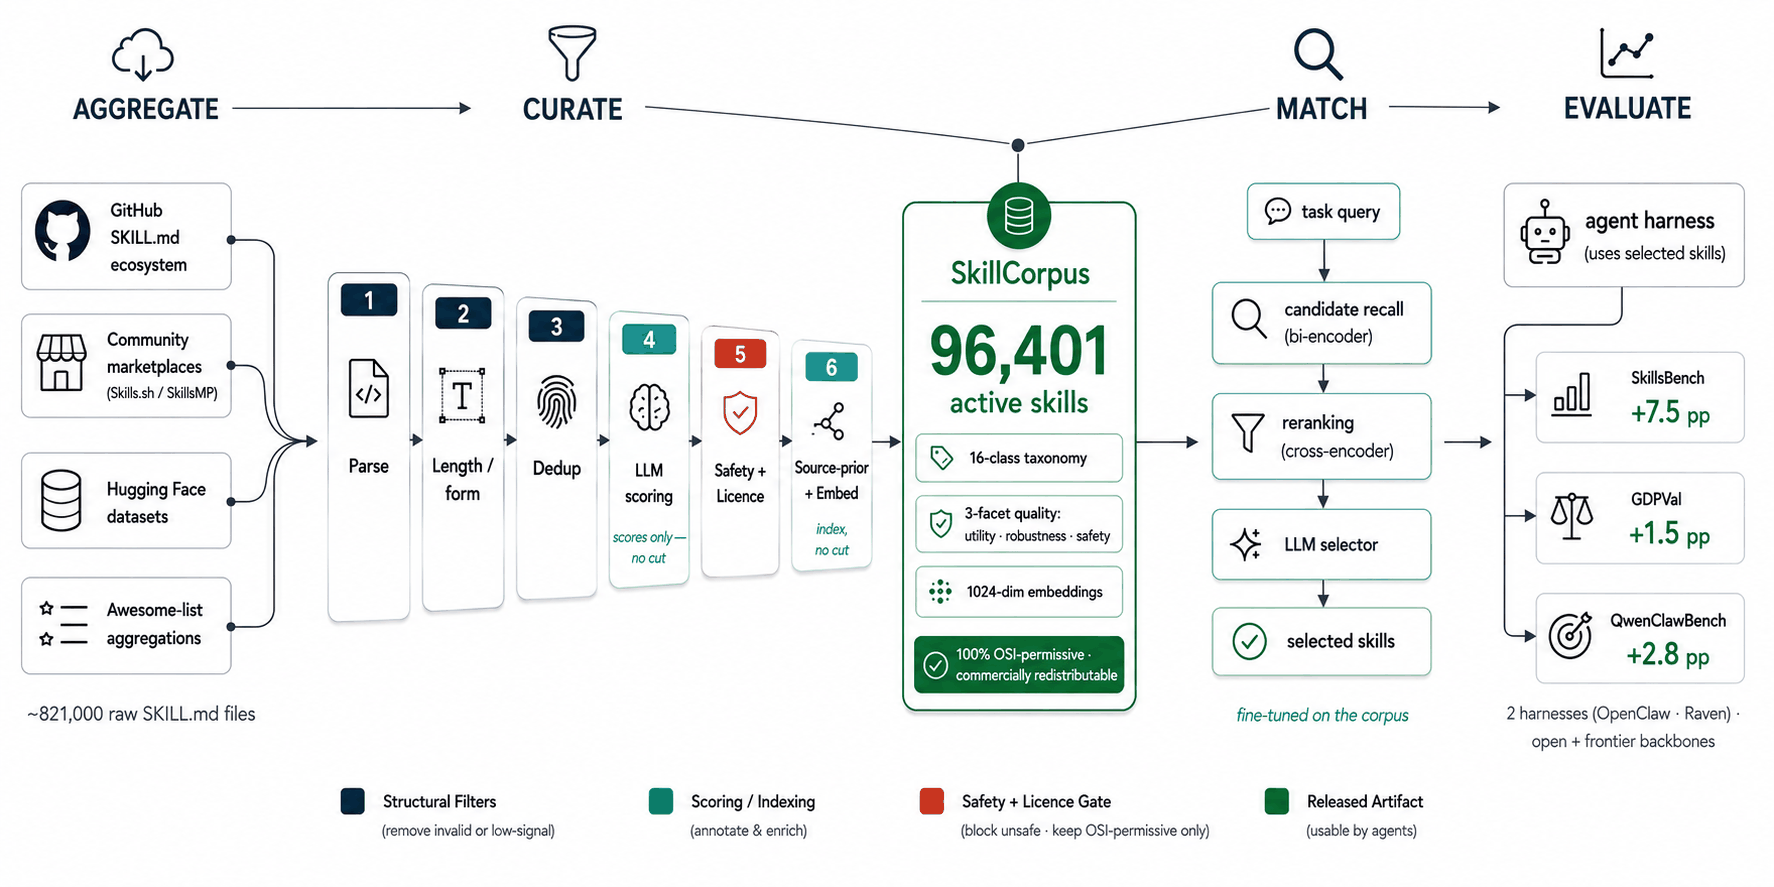
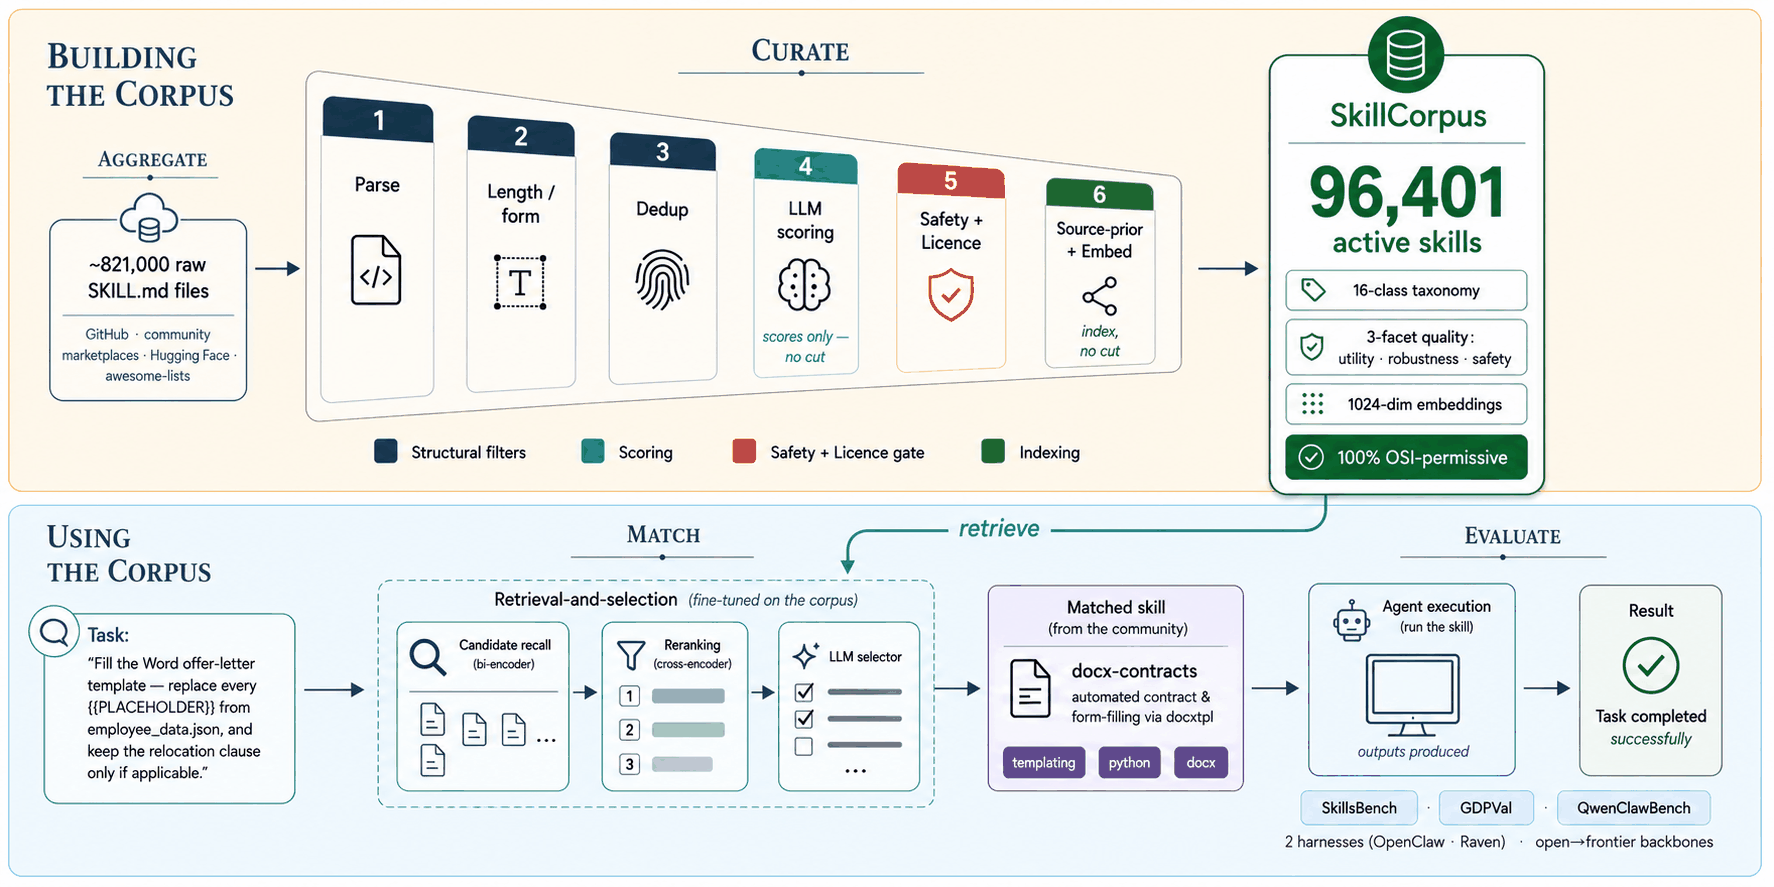
docs: refresh Figure 1 from the arXiv version, add the missing author
The pipeline figure was extracted from a local pre-print PDF that turned out
not to be final. Re-extracted from arXiv:2607.15557.

- docs/assets/pipeline.png: the arXiv figure is a redesign, split into
  "Building the corpus" (aggregate + curate) and "Using the corpus"
  (match + evaluate, with a worked task -> retrieve -> matched skill ->
  execution -> result example). It fits the usage-first README better than
  the previous single-row version. Alt text updated in both READMEs.
- Citation: the arXiv author list adds Xiaotian Luo, missing from the BibTeX
  in both READMEs.

Checked against the arXiv version and unchanged: Table 1 (all cells and the
pooled deltas) and Figure 2 (the 16-class distribution), so docs/assets/
taxonomy.png and the results table stay as they are.

diff --git a/README.md b/README.md
@@ -18,7 +18,7 @@ ships the fine-tuned retrieval stack that selects from it, and evaluates the who
 on three real-world agent benchmarks.
 
 <p align="center">
-  <img src="docs/assets/pipeline.png" alt="The SkillCorpus framework: aggregate, curate, match, evaluate" width="100%">
+  <img src="docs/assets/pipeline.png" alt="SkillCorpus: building the corpus (aggregate + curate) and using it (match + evaluate)" width="100%">
 </p>
 
 ## What it does for you
@@ -265,7 +265,7 @@ python -m pytest skillcorpus/tests -p no:cacheprovider --import-mode=importlib
 ```bibtex
 @article{wang2026skillcorpus,
   title         = {SkillCorpus: Consolidating and Evaluating the Open Skill Ecosystem for Real-World LLM Agents},
-  author        = {Wang, Yanze and Yao, Pengfei and Sun, Tianyi and Hu, Chuanrui and Xiao, Yan and Han, Yunyun and Chen, Yifan and Sun, Jun and Deng, Yafeng},
+  author        = {Wang, Yanze and Yao, Pengfei and Sun, Tianyi and Hu, Chuanrui and Xiao, Yan and Luo, Xiaotian and Han, Yunyun and Chen, Yifan and Sun, Jun and Deng, Yafeng},
   year          = {2026},
   eprint        = {2607.15557},
   archivePrefix = {arXiv},
